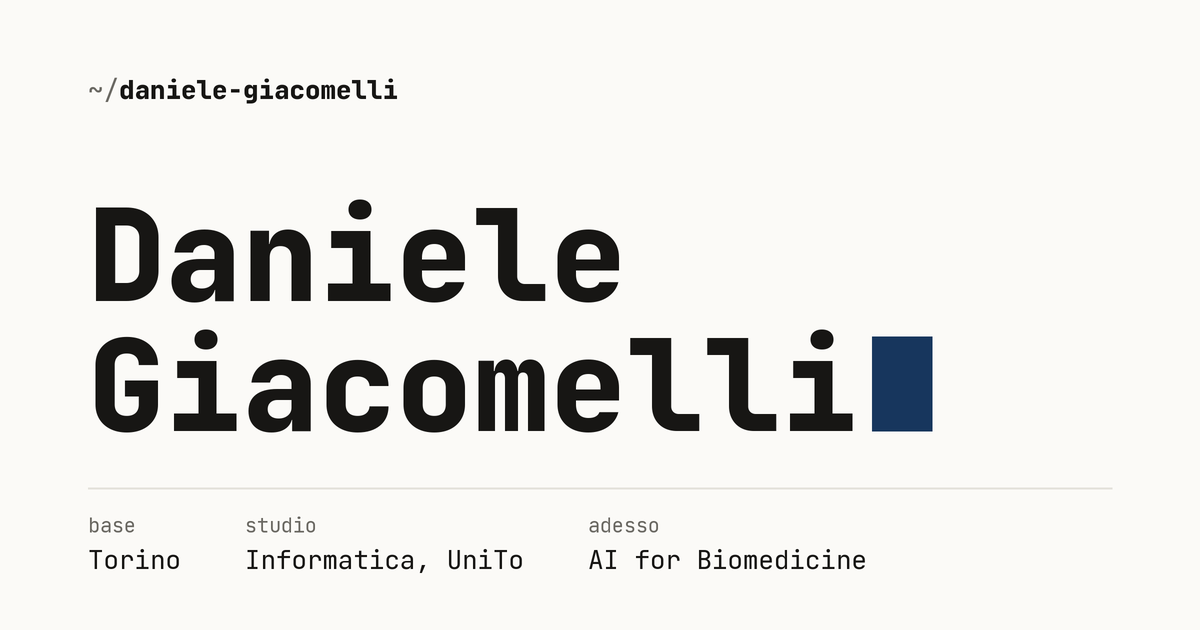
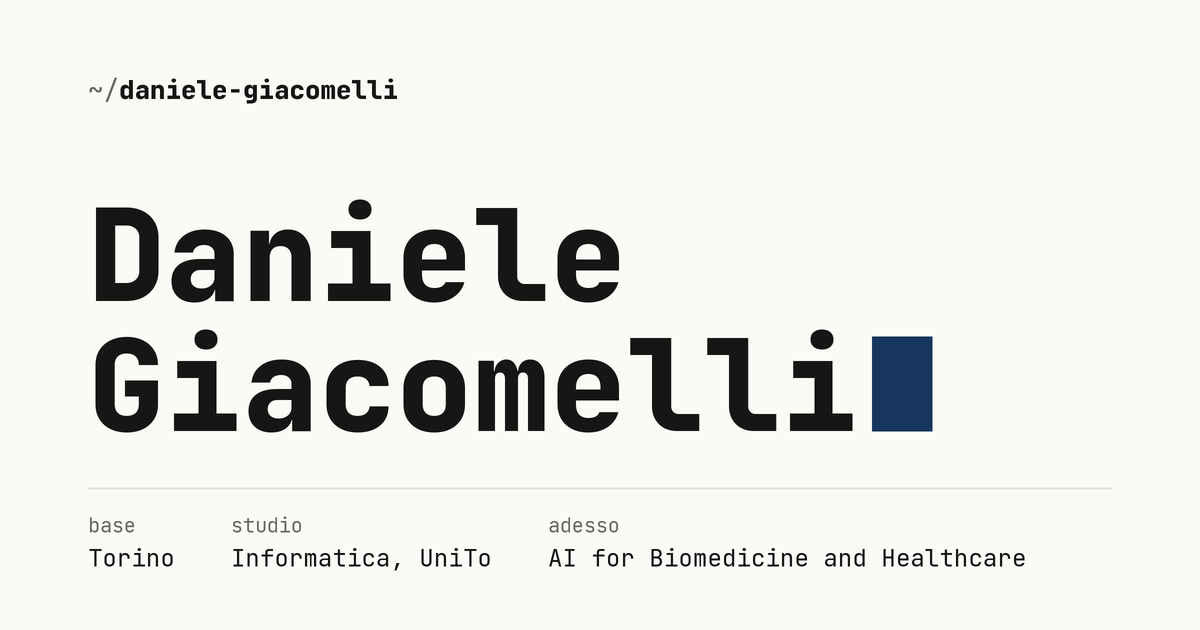
Use the full master's name: AI for Biomedicine and Healthcare

diff --git a/index.html b/index.html
@@ -4,7 +4,7 @@
   <meta charset="UTF-8">
   <meta name="viewport" content="width=device-width, initial-scale=1">
   <title>Daniele Giacomelli</title>
-  <meta name="description" content="Portfolio di Daniele Giacomelli: junior software developer a Torino, studente di AI for Biomedicine all'Università di Torino.">
+  <meta name="description" content="Portfolio di Daniele Giacomelli: junior software developer a Torino, studente di AI for Biomedicine and Healthcare all'Università di Torino.">
   <meta name="color-scheme" content="light dark">
   <link rel="canonical" href="https://daniele-giacomelli.github.io/">
   <link rel="icon" href="/favicon.svg" type="image/svg+xml">
@@ -18,7 +18,7 @@
   <meta property="og:image" content="https://daniele-giacomelli.github.io/og-image.png">
   <meta property="og:image:width" content="1200">
   <meta property="og:image:height" content="630">
-  <meta property="og:image:alt" content="Daniele Giacomelli: Torino, Informatica all'UniTo, AI for Biomedicine">
+  <meta property="og:image:alt" content="Daniele Giacomelli: Torino, Informatica all'UniTo, AI for Biomedicine and Healthcare">
   <meta name="twitter:card" content="summary_large_image">
 
   <link rel="preload" href="/fonts/JetBrainsMono.woff2" as="font" type="font/woff2" crossorigin>
@@ -44,11 +44,12 @@
       <dl class="meta">
         <div><dt>base</dt><dd>Torino</dd></div>
         <div><dt>studio</dt><dd>Informatica, UniTo</dd></div>
-        <div><dt>adesso</dt><dd>AI for Biomedicine</dd></div>      </dl>
+        <div><dt>adesso</dt><dd>AI for Biomedicine and Healthcare</dd></div>
+      </dl>
       <p class="lead">
         Junior software developer a Torino. Sviluppo web e backend (Java/Spring Boot,
         Node.js, PHP) e studio deep learning applicato all'imaging medico:
-        laureando in Informatica e studente della magistrale in AI for Biomedicine
+        laureando in Informatica e studente della magistrale in AI for Biomedicine and Healthcare
         all'Università di Torino.
       </p>
     </section>
@@ -99,7 +100,7 @@
         <li>
           <span class="when">2026 – in corso</span>
           <div>
-            <strong>Laurea Magistrale in AI for Biomedicine</strong>
+            <strong>Laurea Magistrale in AI for Biomedicine and Healthcare</strong>
             <p>Università di Torino.</p>
           </div>
         </li>
